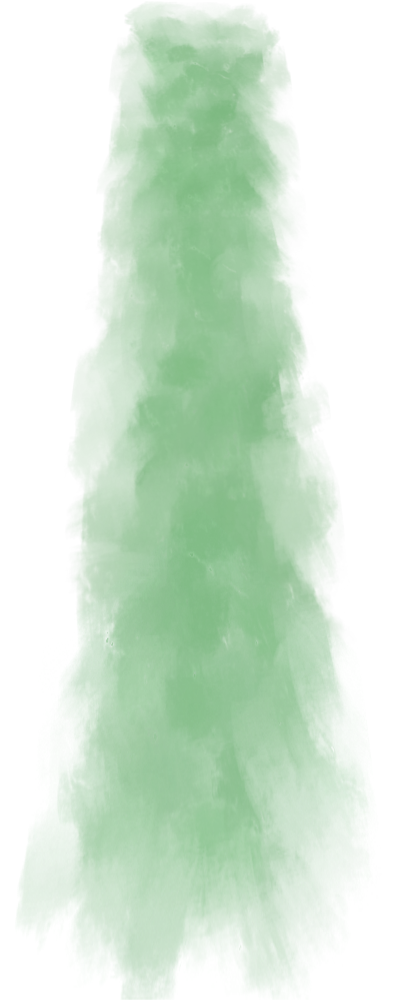
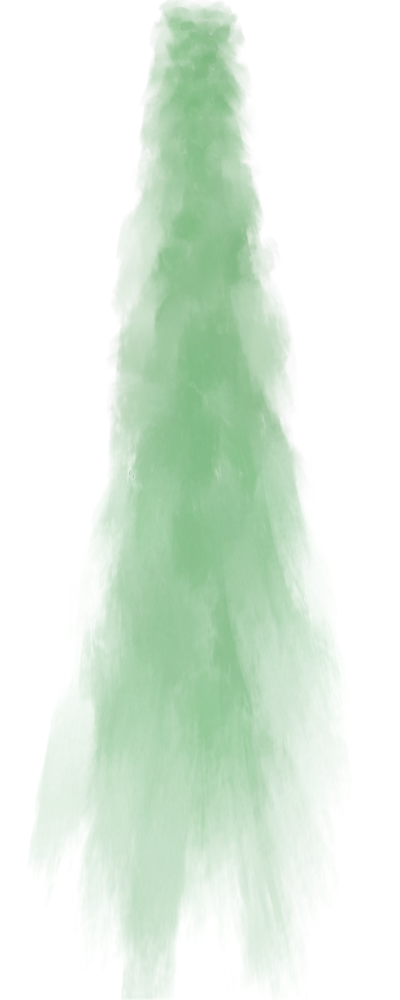
Fix grass shape.

diff --git a/Game.js b/Game.js
@@ -101,12 +101,12 @@ BasicGame.Game.prototype = {
     
     o.grass1 = game.add.sprite(game.width * 2/5 + (c.noteDelay + c.reactionWindow) * c.gameSpeed, c.groundY, "grass1");
     console.log("first: "+ (game.width * 2/5 + (c.noteDelay + c.reactionWindow) * c.gameSpeed));
-    o.grass1.width = game.width / 4;
+    o.grass1.width = game.width / 3;
     o.grass1.geight = game.height - c.groundY;
     o.moving.add(o.grass1);
     
-    o.grass2 = game.add.sprite(game.width * 2/5 + (2 * c.noteDelay + c.reactionWindow) * c.gameSpeed, c.groundY, "grass1");
-    o.grass2.width = game.width / 4;
+    o.grass2 = game.add.sprite(game.width * 6/20 + (2 * c.noteDelay + c.reactionWindow) * c.gameSpeed, c.groundY, "grass1");
+    o.grass2.width = game.width / 3;
     o.grass2.geight = game.height - c.groundY;
     o.moving.add(o.grass2);
     
@@ -114,7 +114,7 @@ BasicGame.Game.prototype = {
     o.bubbleX.visible = false;
 
     // player
-    o.playerChar = game.add.sprite(game.width * 2/5, c.lanes[s.activeLane], "player_char");
+    o.playerChar = game.add.sprite(game.width * 6/20, c.lanes[s.activeLane], "player_char");
     o.playerChar.width = game.width * 1/4;
     o.playerChar.height = o.playerChar.width;
 
@@ -301,8 +301,7 @@ BasicGame.Game.prototype = {
 			i.x -= c.gameSpeed * (objNow - s.prevTime);
 		} else {
 			if (i == o.grass1 || i == o.grass2) {
-				i.x = game.width * 2/5 + (c.noteDelay - (objNow - s.prevNoteTime) + c.reactionWindow) * c.gameSpeed;
-				game.width * 2/5 + (c.noteDelay + c.reactionWindow) * c.gameSpeed
+				i.x = game.width * 6/20 + (c.noteDelay - (objNow - s.prevNoteTime) + c.reactionWindow) * c.gameSpeed;
 				console.log("i.x = " + i.x+", asd: "+(objNow - s.prevNoteTime));
 			} else {
 				if (i == o.playerDowned) {
